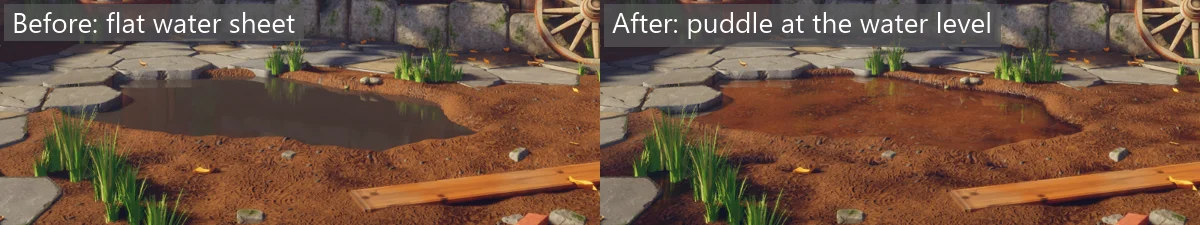
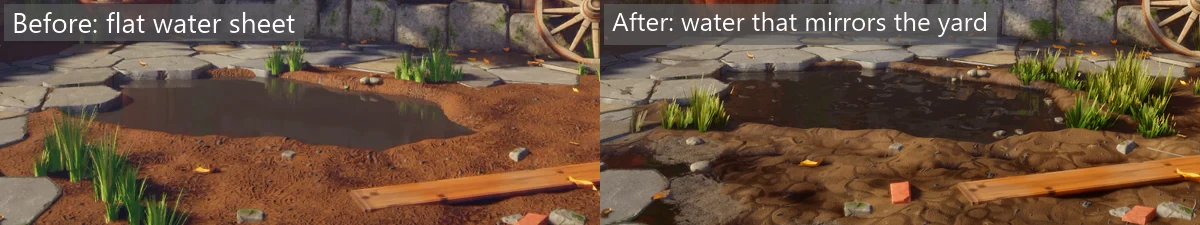
docs: the Courtyard before and after, and what the renderer learned

diff --git a/examples/Courtyard/README.md b/examples/Courtyard/README.md
@@ -46,6 +46,8 @@ that wasn't cooked stops the game as it loads. D turns them all off and on. The 
 parallax, a grit graph laid over the bricks and stones keeps them grainy a step away, and
 broad patches of light and dark laid by world position hide where the textures repeat.
 
+![The wall right of the window before and after: on the left bricks in a narrow range of reds and orange-browns; on the right bricks from dark plum through reds and orange-browns to ochre and pale buff](../../docs/media/courtyard-realism-wall.webp)
+
 The lantern, the crates and the wheel are models from Sketchfab, kept in `art/assets`. The
 script imports them, places them and puts them in the model with their own textures. They
 are used under [CC BY 4.0](http://creativecommons.org/licenses/by/4.0/):
@@ -56,27 +58,46 @@ are used under [CC BY 4.0](http://creativecommons.org/licenses/by/4.0/):
 - [Wooden_wheel](https://skfb.ly/6XMBR) by DOMNIN. Its metalness map is left out, since
   it made the grey, weathered wood shine like metal, and the sidecar warms the wood a little.
 
+![The wheel, the crates and the sacks before and after: on the left even brown deck boards and smooth mud with a few grass tufts; on the right deck boards each their own tone, silvered in patches, coarse mud and more grass round the wheel](../../docs/media/courtyard-realism-props.webp)
+
 ![The wall before and after: a green gooseneck lamp, a lathe-built wheel and a crate made from boards in code on the left, and the glass wall lantern, the wheel and the crate from Sketchfab on the right](../../docs/media/courtyard-models.webp)
 
-It's a clear afternoon. The sun is high on the left, still low enough to rake across the
-bricks and the plinth, and the tree's canopy breaks it into dappled light across the wall
-and the window. The sun is set close to its real size with `view.Shadows(7f, 3, sunSize: 0.02f)`,
-so the leaves' shade stays crisp though they are 10 m from the wall. See
-[Shadows](../../docs/rendering.md#shadows). The sky is a clear one worked out from the sun
-with `Turbidity = 2.5f`: blue overhead, paler at the horizon and bright round the sun's
-disc, so the shade is cooler than the sunlight. See [The sky](../../docs/rendering.md#the-sky). The sky is at its
-full `Brightness = 1f`, so the shade is lit by the whole open sky and the low wall's stones
-still read in it, while the sun keeps it a clear step darker than the light, as on a real clear
-day. The light probes carry light bounced off the sunlit brick and flagstones into the shade,
-ambient occlusion over 0.8 m darkens the corners and the foot of each wall, and contact shadows
-of 0.3 m seat the stones, the barrel and the sacks on the ground. The camera meters
-the courtyard with auto exposure and the finish adds 1.15 stops to what it picks, so
-the shade stays open and the sunlit wall reads bright through AgX's Punchy look. See [Auto exposure](../../docs/rendering.md#auto-exposure). The lantern is a point light at its
-bulb, left on but dim in daylight, that warms the wall just round it. It casts no shadows, since the bulb and
-the lantern round it would hide it. A point light at the back of the room makes the old
-glass glow, as if someone is home. A light finish adds contrast and saturation, a warm white
-balance, a little bloom round the lamp and a vignette. Above full HD the sun's shadow maps
-double to 4096, so their texels don't show in a large picture.
+It's a clear afternoon. The sun is high on the left and a little in front of the wall, still
+low enough to rake across the bricks and the plinth, and the tree's canopy breaks it into
+dappled light across the wall and the window. `view.Shadows(7f, 3, sunSize: 0.02f, contact: 0.3f)`
+sets the sun close to its real size, so the leaves' shade stays crisp though they are 10 m
+from the wall, and its contact shadows of 0.3 m seat the stones, the barrel and the sacks on
+the ground. Above full HD the sun's shadow maps double to 4096, so their texels don't show
+in a large picture. See [Shadows](../../docs/rendering.md#shadows). The sky is a clear one
+worked out from the sun with `Turbidity = 2.5f`: blue overhead, paler at the horizon and
+bright round the sun's disc, so the shade is cooler than the sunlight. It is at its full
+`Brightness = 1f`, so the shade is lit by the whole open sky and the low wall's stones still
+read in it, while the sun keeps it a clear step darker than the light, as on a real clear
+day. See [The sky](../../docs/rendering.md#the-sky).
+
+Light probes a metre apart fill the yard, so light bounced off the sunlit brick and
+flagstones warms the shade round it. See [Bounced light](../../docs/rendering.md#bounced-light).
+Ambient occlusion over 0.8 m at full strength darkens the corners and the foot of each wall.
+A reflection probe at head height in the middle of the yard lets the window and the puddle
+mirror the wall, the deck and the house rather than only the sky. Water stands 4.5 cm below
+the yard's zero with `view.Puddles(-0.045f, band: 0.035f)`, so the hollow dug in the mud
+fills, the deepest boot prints hold a little, and the mud darkens for the last 3.5 cm down to
+it. A wider band would darken the flagstones round the puddle too. See
+[Puddles](../../docs/rendering.md#puddles).
+
+![The puddle before and after: on the left a flat dark sheet in smooth red-brown mud; on the right dark silty water that mirrors the flagstones and the wall, in coarse churned mud with pebbles and broken brick](../../docs/media/courtyard-realism-puddle.webp)
+
+The lantern is a point light at its bulb, left on but dim in daylight, that warms the wall
+just round it. It casts no shadows, since the bulb and the lantern round it would hide it. A
+point light at the back of the room makes the old glass glow, as if someone is home.
+
+The camera meters the courtyard with auto exposure, and `Exposure = 1.15f` adds a little over
+a stop to what it picks, so the shade stays open and the sunlit wall reads bright through
+AgX's Punchy look, the default. See [Auto exposure](../../docs/rendering.md#auto-exposure).
+The rest of the finish is light: a touch more contrast and saturation, a warm white balance,
+a little sharpening, a little bloom round the lamp and a vignette. The lens is a 35 mm
+focused on the window, 11 m off, and stopped down to f/8, so the flagstones at your feet
+soften a little and the window and the wall stay crisp. See [Focus](../../docs/rendering.md#focus).
 
 ![The courtyard before and after: on the left the shade is nearly as bright as the sun, the lantern floods the wall and the bricks are all one orange-red; on the right the shade is a clear step darker, the lantern only warms the wall round it, and the bricks range from dark clinkers to pale ones in grey mortar](../../docs/media/courtyard-light.webp)
 
@@ -194,17 +215,21 @@ crates' frames and the deck boards' ends. The tree's leaves and the small curled
 under the walls are still plain `cy_tree_leaf` and `cy_dead_leaf` quads. The model's own
 stain quads are gone: `WallStains` lays the damp, the drip and the rust as decals.
 
+![The ivy, the dry-stone wall and the barrel before and after: on the left star-shaped ivy in a dark green sheet and bright grass tufts on dark ground; on the right ivy of leaf cards along its stems and spilling over the dry-stone wall, olive grass along the wall's foot and a warmer, sunlit barrel](../../docs/media/courtyard-realism-plants.webp)
+
 ![The courtyard before and after, from the default camera: on the left plain ivy quads in a bright green sheet and a few grass quads; on the right a mat of ivy leaf cards over its stems, olive grass in patches on the puddle's bank and at the deck's edge with the trodden mud bare, and dirt, moss and wet patches round the barrel, the wheel and the crates](../../docs/media/courtyard-cards.webp)
 
 ## Files
 
 | File | What's in it |
 | --- | --- |
-| `CourtyardGame.cs` | The courtyard model, the camera, the sun and its shadows, the sky and its fog, the lantern and the room's light, and the finish |
+| `Program.cs` | Starts the courtyard, or the lineup with `--lineup` and the leaves with `--leaves` |
+| `CourtyardGame.cs` | The courtyard model, the camera, the sun and its shadows, the sky and its fog, the light probes, the reflection probe, the puddle level, the wind, the lantern and the room's light, and the finish. It loads the hand-placed decal list, lays it with the wall's stains and the gravel, and turns the materials, fog, volumetric fog, auto exposure and decals off and on with M, F, V, E and D |
 | `WallStains.cs` | Where the grime decals lie on the wall: the damp along its foot, the dirty water under the sill and the rust under the anchor plates |
 | `GravelSpills.cs` | Where the gravel decals lie: spills along both edges of both arms of the path and round the barrel's foot, kept off the middle of the path, the puddle and the wall |
 | `DecalCatalog.cs` | `DecalList` and `PlacedDecal`, the shape of a hand-placed decal list, and how a decal's position, size, facing and turn make its box |
 | `content/decals/courtyard.json` | The hand-placed decals, each with a unique name and the cooked material it is laid with: the dirt round the things that stand on the ground, the rust on the barrel, moss, wet ground and the boot prints. `DecalCatalogTests` cooks it and checks that every material it names was cooked and that no two decals share a name |
+| `content/.schemas/decals.schema.json` | The JSON schema for decal lists, which Super writes when the game runs from source, so an editor can check a list as you type. See [Your editor can help](../../docs/content.md#your-editor-can-help) |
 | `content/materials/stain.material.cs` | Small stains for decals that fade out well inside the image, picked by `Kind`: a ring of dirt round something's foot, round or `Square`, a cushion of moss, a patch of wet ground and one muddy boot print with its tread |
 | `content/materials/stain-square.material.json`, `stain-moss.material.json`, `stain-water.material.json`, `stain-boot.material.json` | Variants of the stain: the square ring under the crates, the moss, the wet ground and the boot print |
 | `LineupGame.cs` | The lineup |
@@ -213,7 +238,8 @@ stain quads are gone: `WallStains` lays the damp, the drip and the rust as decal
 | `content/models/cards.glb.cook.json` | The cards' rules: the courtyard's own rules for its `graph_*` names, and `swatch_*` rules that show each graph whole, cut out but not lit as foliage |
 | `art/courtyard.py` | The Blender script that builds and exports the courtyard. It lays each board, stave and plank on one of the wood graph's boards, its width across the graph board and its two sawn ends on the graph board's two ends of end grain, so end grain shows only where a board really ends. The deck is laid in boards of 0.75 to 1.5 m, one graph board each, butted end to end in staggered joints, and no board at a run's end is shorter than 0.75 m. A deck board's width takes only the flat of its graph board, so the graph's rounded edge doesn't add a bright second edge beside the board's own bevel. Two iron nail heads are driven into each bearer a deck board crosses. It also lays the ivy's leaf cards, the grass's blade cards, the weeds, the cobwebs, the fallen leaves, twigs, brick bits and wet pebbles, and the 6 mm nails at the deck boards' ends and the crates' corners, which it finds by casting rays at the crates. The second UV set, `mask`, that the cook bakes wear and dirt into is unwrapped per material by Smart UV Project at 66° with a margin of 0.002 |
 | `art/assets/` | The lantern, crate and wheel from Sketchfab, with their textures, that the script imports |
-| `content/models/courtyard.glb.cook.json` | Which graph each of the model's materials wears, each cooked at `graphSize` 2048 so they hold up close (4096 for the bricks and the flagstones, which cover the most of the screen), the wood's two variants for the barrel's staves and the deck, with a wear tint on their edges that is only a little paler than the wood on the staves, and a little darker and dull on the deck, so worn edges don't read as bright lines, a warmer tint for the wheel's weathered wood, five tints of the dry-stone graph for the wall's stones, plus the bulb, the leaves, grass and whitewash that are seen from both sides, the grit detail graph and `worldVariation` on the bricks, stone, dry stone and flagstones, `worldVariation` on the mud, `puddles` on the mud, the flagstones, the plank, the deck, the hoops, the wheel and the stone graph's wet pebbles (`graph_pebble_wet`), `wind` on the grass, with a share of 0.08 for the ivy and 0.4 for the tree's leaves so they sway less, rules for the leaf, blade, cobweb and dead-leaf cards that cut them out at `alphaCutoff` 0.5 and draw both sides, with `foliage` translucency 0.7 for the ivy and 0.85 for the grass blades and `"crown": false` so the cards keep the bent normals the model gives them, wind like the plain ivy and grass and a share of 0.02 for the cobweb, and three tints of dead leaf, the ivy leaf tinted brown and less translucent for the dead ivy (`graph_ivy_dead`), and `keepOrigin` |
+| `content/models/courtyard.glb.cook.json` | Which graph each of the model's materials wears, each cooked at `graphSize` 2048 so they hold up close (4096 for the bricks and the flagstones, which cover the most of the screen), the wood's two variants for the barrel's staves and the deck, with a wear tint on their edges that is only a little paler than the wood on the staves, and a little darker and dull on the deck, so worn edges don't read as bright lines, a warmer tint for the wheel's weathered wood, five tints of the dry-stone graph for the wall's stones, plus the bulb, the leaves, grass and whitewash that are seen from both sides, the grit detail graph and `worldVariation` on the bricks, stone, dry stone and flagstones, `worldVariation` on the mud, `puddles` on the mud, the flagstones, the plank, the deck, the hoops, the wheel and the stone graph's wet pebbles (`graph_pebble_wet`), `wind` on the grass, with a share of 0.08 for the ivy and 0.4 for the tree's leaves so they sway less, rules for the leaf, blade, cobweb and dead-leaf cards that cut them out at `alphaCutoff` 0.5 and draw both sides, with `foliage` translucency 0.7 for the ivy and 0.85 for the grass blades and `"crown": false` so the cards keep the bent normals the model gives them, wind like the plain ivy and grass and a share of 0.02 for the cobweb, and three tints of dead leaf, the ivy leaf tinted brown and less translucent for the dead ivy (`graph_ivy_dead`), `bakeMasks` with a `wear` and a `dirt` tint on the stone, the wood, the staves, the deck, the hoops and the crates' wood, so their edges rub pale and their hollows darken, and `keepOrigin` |
+| `content/models/courtyard.glb`, `content/models/cards.glb` | The courtyard and the leaves' cards, as `art/courtyard.py` and `art/cards.py` write them |
 | `content/materials/whitewash.material.cs` | Old limewash, 1 m wide, for the flakes on the wall. Off-white Perlin patches with grime streaks from `Noise.Directional` running down, heavier in some places than others. About a fifth of it has flaked away, in Perlin patches through `HistogramScan` whose edges `SlopeBlur` with Perlin bites jagged, showing brick coloured as `brick-face.material.cs` colours it, with lime left in its pores. The brick lies 3 mm below the coat, whose edge lifts a little and is lined with dirt, and lime washed from the coat's lower edges runs a few centimetres down the brick in streaks |
 | `content/materials/glass.material.cs` | Old window glass, 3.7 m wide and transparent: a `Tiles.Grid` of 6 by 8 panes, each the size of a pane of the window, moved so its joints fall on the glazing bars. Clean glass is a faint green tint with ripples from `Noise.Directional` that bend the reflection, from one of two seeds per pane, picked by the pane's `FloodFill` island, so neighbours don't carry the same ripples on. Dust packs into each pane's corners, from an inverted `Gradient.Radial` laid over the pane by its island's own gradients, and along its foot. Dust from Perlin, faint rain streaks running down, mostly in the lower half of each pane, and specks from blurred white noise raise its opacity, from 0.05 to 0.8, and roughness. One pane is cracked: a jagged hairline with a branch, widened by `Distance`, pale where the broken edges catch the light, with the glass on one side tipped a fraction |
 | `content/materials/bricks.material.cs` | Big old bricks 43.75 cm long and about 29 cm high in grey lime mortar, 3.5 m wide, cooked at `graphSize` 4096. Each brick is found with `FloodFill` and takes one of eight tones from dark plum through the reds and orange-browns to ochre and pale buff, most of them reds and orange-browns, a third the two middle reds, and the plum and buff rare accents. Their lightness rises steadily, the buff about twice the red. The tones are dealt once from a fixed shuffle so that no brick matches any brick it touches, and `BrickToneTests` checks it. Each brick also gets its own tilt and hardness: hard bricks are smooth with a slight sheen, soft ones undulate, are pitted with pores from small cells and are dull. Over about a fifth of the wall, in patches from low Perlin through `HistogramScan`, salts have dried to a white rim along the joints, bleeding about 4 cm into the soft bricks and over the mortar, from `Distance` on the mortar and broken up by a fine Perlin grain. Soot from a `Gradient.Linear` darkens a band under the string course, broken into streaks by `Noise.Directional`. `SlopeBlur` with cells chips the edges, and a second, coarser pass bites bigger chips out of one brick in five. Perlin through a narrow `Levels` spalls flakes off a few faces. The mortar is grey and dirty, filled to an uneven level and lightened and darkened by its own Perlin, and weathered back to a deep recess in patches from cells. Its height map gives the mortar parallax depth |

diff --git a/docs/rendering.md b/docs/rendering.md
@@ -9,17 +9,36 @@ What it does for every game, with no setup:
 - Cook-Torrance GGX shading with up to eight directional lights, and up to 1,024 point
   and spot lights with soft shadows. Rough surfaces keep the light that bounces between
   their tiny facets, so worn iron and brushed steel stay as bright as real metal does
-- Soft, contact-hardening shadows, in up to four cascades, with screen-space contact shadows where things meet the ground
+- Soft, contact-hardening shadows, in up to four cascades, with screen-space [contact shadows](#shadows) where things meet the ground
 - A generated environment that gives surfaces reflections and soft fill light
-- [Bounced light](#bounced-light) from a volume of light probes, which doesn't leak through walls
 - Screen-space reflections and box-corrected [reflection probes](#reflections), which glass reflects too
-- Temporal anti-aliasing that follows moving, animated and swaying things with [motion vectors](#motion-vectors), [ambient occlusion](#ambient-occlusion) (with light bounced back from the surface's colour) and bloom
+- Ground-truth [ambient occlusion](#ambient-occlusion) (GTAO), with a bent normal that turns the soft light towards the opening and specular occlusion that dims reflections in corners, and light bounced back from the surface's colour
+- Temporal anti-aliasing that follows moving, animated and swaying things with [motion vectors](#motion-vectors), and bloom
 - [Glass](#glass) that bends and frosts what's behind it, car paint clearcoat and surfaces that glow
 - [Height maps](#height-and-detail-maps) that sink mortar and grooves into a flat surface, and detail maps for fine grain
 - Skin, wax and jade that [let light spread under the surface](#skin-and-wax)
+- Cut-out leaves, grass and cobwebs that [keep their shape in the distance](#models), since the cook keeps their alpha coverage in every mip
 - Soft, lit [particles](views.md#particles) for dust and smoke
 - Culling and simpler versions of distant models, for the camera and for shadows
-- AgX or ACES filmic tonemapping, white balance, colour grading, sharpening, vignette, grain and dithering
+- [AgX](#tone-mapping) or ACES filmic tonemapping, white balance, colour grading, sharpening, vignette, grain and dithering
+
+And when a scene asks for it:
+
+- [Bounced light](#bounced-light) from a volume of light probes, which doesn't leak through walls
+- A [clear sky](#the-sky) worked out from the sun and the haze in the air, with the sun's disc in it
+- [Height fog](#fog) that glows towards the sun, and [volumetric fog](#volumetric-fog) near the camera, with shafts of sunlight and halos round lamps
+- [Auto exposure](#auto-exposure) that meters the frame and adapts like a camera
+- [Depth of field](#focus) from a lens with a focus distance, an aperture and a focal length
+- [Decals](views.md#decals) that lay grime, rust, moss and boot prints onto what is under them
+- [Puddles](#puddles) of standing water, with a damp band, wherever the ground lies below a level
+- [Wind](#wind) that sways grass, leaves and their shadows
+- [Wear and dirt](#wear-and-dirt) on edges and in hollows, from masks the cook bakes from the mesh
+- A [render scale](#graphics-settings) that draws the scene smaller or larger than the window, and [AMD FSR](#upscaling) to rebuild the full picture from a smaller one
+
+The [Courtyard example](../examples/Courtyard) uses most of them. Here it is before and
+after they and its materials were reworked, from the same camera and the same frame:
+
+![The Courtyard before and after: on the left orange-red bricks, a few bright green grass tufts, a dark flat puddle and smooth brown mud; on the right bricks from plum to pale buff, ivy of leaf cards, grey and sandstone flagstones, coarse mud with gravel, a puddle that mirrors the yard, weathered deck boards and a window that reflects the courtyard](media/courtyard-realism.webp)
 
 ## Graphics settings
 
@@ -661,7 +680,7 @@ view.Puddles(-0.045f);          // water at 4.5 cm below 0, damp for 8 cm above 
 view.Puddles(0.2f, band: 0.03f); // higher water and a narrower damp band
 ```
 
-![The Courtyard puddle before, a flat grey sheet, and after, muddy water at the level that mirrors the grass and stones](media/puddles-before-after.webp)
+![The Courtyard puddle before, a flat grey sheet, and after, dark silty water at the level that mirrors the flagstones, the grass and the wall behind it](media/puddles-before-after.webp)
 
 Only materials that ask for it get wet: a model sidecar's rule with `"puddles": true`, or a
 `Surface` with `Puddles = true`. Each pixel's height is where it is in the world, less how

diff --git a/docs/roadmap.md b/docs/roadmap.md
@@ -27,6 +27,16 @@ Super is early. These are the known gaps, so you can plan around them.
 - **Local lights in reflections.** [Reflection probes](rendering.md#reflections) are
   photographed by the sun and sky alone, so a lantern or a lit window doesn't show in a
   reflection, and turning one on doesn't photograph the probe again.
+- [Light probes](rendering.md#bounced-light) are static. They are drawn once when the box is
+  set and again only when the sun, the sky, the shadows or the box change, not when things
+  move, and each frame that draws them takes longer.
+- Bounced light doesn't follow moving lights or objects: a lamp carried through a room, a
+  door that opens or a cart that rolls into the sun changes nothing in the shade round it.
+  The next step is probes that update a few at a time while the game runs, as DDGI does,
+  and later a surface cache like Unreal's Lumen.
+- [Height maps](rendering.md#height-and-detail-maps) sink mortar and grooves with parallax,
+  but the grooves cast no shadow of their own, so a low sun across a brick wall doesn't
+  darken the side of each joint away from it.
 - [Auto exposure](rendering.md#auto-exposure) meters the whole frame, the sky included,
   with every pixel counted the same, so there is no centre weighting yet. It has no lower
   or upper limit on where it settles, so a scene meant to be dark is pushed up to middle
@@ -63,7 +73,8 @@ Super is early. These are the known gaps, so you can plan around them.
   [Cooking](content.md#cooking) and [Change it while the game runs](content.md#change-it-while-the-game-runs).
 - Step 1 of [material graphs](materials.md) is done: graphs cook into textures, with the
   Courtyard lineup of six starter graphs. `graph` in model sidecars is done too, and the
-  Courtyard is now a scene modelled in Blender that wears the graphs, and its puddle is
+  Courtyard is now a scene modelled in Blender that wears nineteen of the example's graphs,
+  with cards cut out by a graph's opacity, decals laid with graphs, and a puddle of
   [standing water](rendering.md#puddles) at a level the game sets. Next: hot reload of a
   saved graph in the running game, `repeat` in model
   sidecars, mesh bakes with a `Triplanar` node, and curvature and

diff --git a/docs/design.md b/docs/design.md
@@ -2142,7 +2142,26 @@ Anything larger than a block gets its own allocation.
   They don't see point and spot lights.
 - Light probes are captured again only when the lighting or the box changes, not when
   things move, and a sun that moves every frame keeps them capturing. Each capture frame
-  waits for the GPU face by face, so it hitches.
+  waits for the GPU face by face, so it hitches. They see the sun and the sky but not point
+  and spot lights, so bounced light follows neither a moving lamp nor a moving object.
+  Probes that update a few at a time while the game runs, as DDGI does, would be the next
+  step.
+- Volumetric fog is a froxel grid of one cell per 8×8 scene pixels, so light bleeds a
+  cell across silhouettes, a shaft narrower than a cell blurs, and its history smears a
+  moving light or a fast camera for a few frames. Past `VolumetricDistance` the fog is the
+  plain height fog again.
+- Decals that overlap don't stack their normals and roughness, only their colours, and a
+  decal can't make a surface metal or make it glow. See [Decals](#decals).
+- Puddles have one flat level per view. Water doesn't run, rise in one hollow and not
+  another, ripple under rain or bend what lies under it, and with materials off the clay
+  is wet at its mesh's height, since there is no height map to sink it.
+- Wear and dirt masks are baked once, when the model cooks, from its own meshes: a crate
+  moved against a wall in the game doesn't gather dirt where it now stands, and a graph
+  can't read the masks. They need a second UV set with no overlaps, and transparent
+  materials ignore them.
+- Keeping alpha coverage in the mips scales only alpha, so a far cut-out keeps its
+  outline but its colour is the plain filtered average, and it is done only for materials
+  with an `alphaCutoff`.
 - Custom shaders replace only the G-buffer fragment shader. Shadows still use the
   material's standard cut-out, so a shader that discards extra pixels leaves the full
   shadow. Glass can't use one, and vertices can't be moved by one yet.

diff --git a/docs/materials.md b/docs/materials.md
@@ -13,8 +13,11 @@ Graphs run when content is cooked, never while the game runs.
 Six starter graphs, from the [Courtyard](../examples/Courtyard) example's lineup
 (`--lineup`). Each is drawn on a sphere, a cube and a flat tile 1 m across, at the graph's
 own width, so a brick is the size of a brick. The example itself is a courtyard modelled
-in Blender, wearing these graphs and four more, stone, mud, window glass and sacking, through its model sidecar. The graphs are in `examples/Courtyard/content/materials` and make a good
-place to start a new one.
+in Blender, wearing the bricks, flagstones and wood and sixteen more graphs through its model
+sidecar and its decals: mud, stone, dry stone, rubbed brick, limewash, window glass, sacking and forged
+iron, the ivy leaves, grass blades, dead leaves and cobweb its cards are cut from, a fine
+grit laid over the stone, and the grime, gravel and stains its decals lay. The graphs are in
+`examples/Courtyard/content/materials` and make a good place to start a new one.
 
 ## Writing a graph
 
